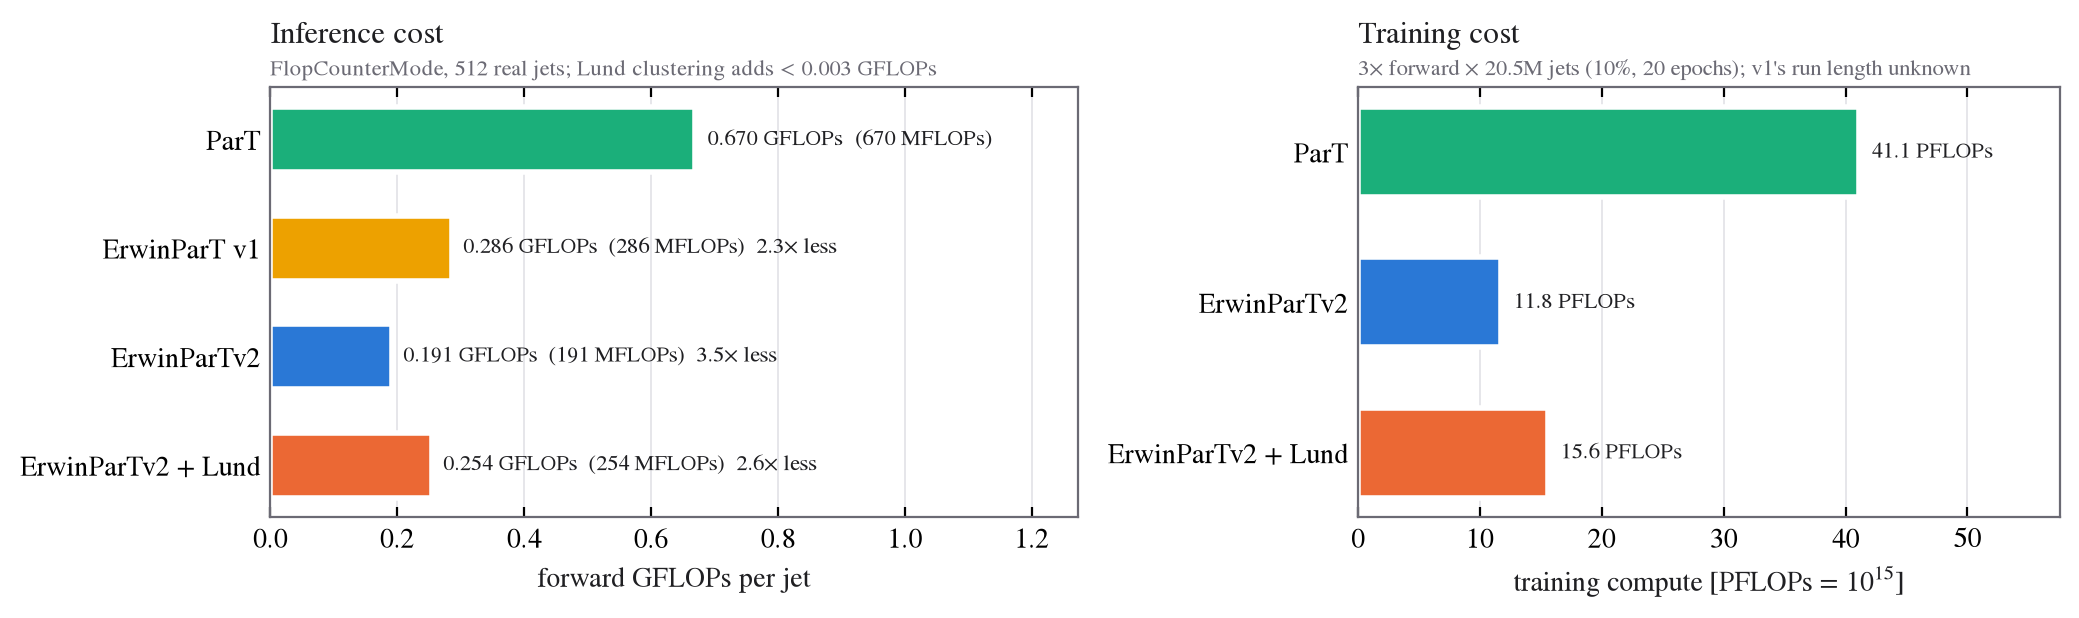
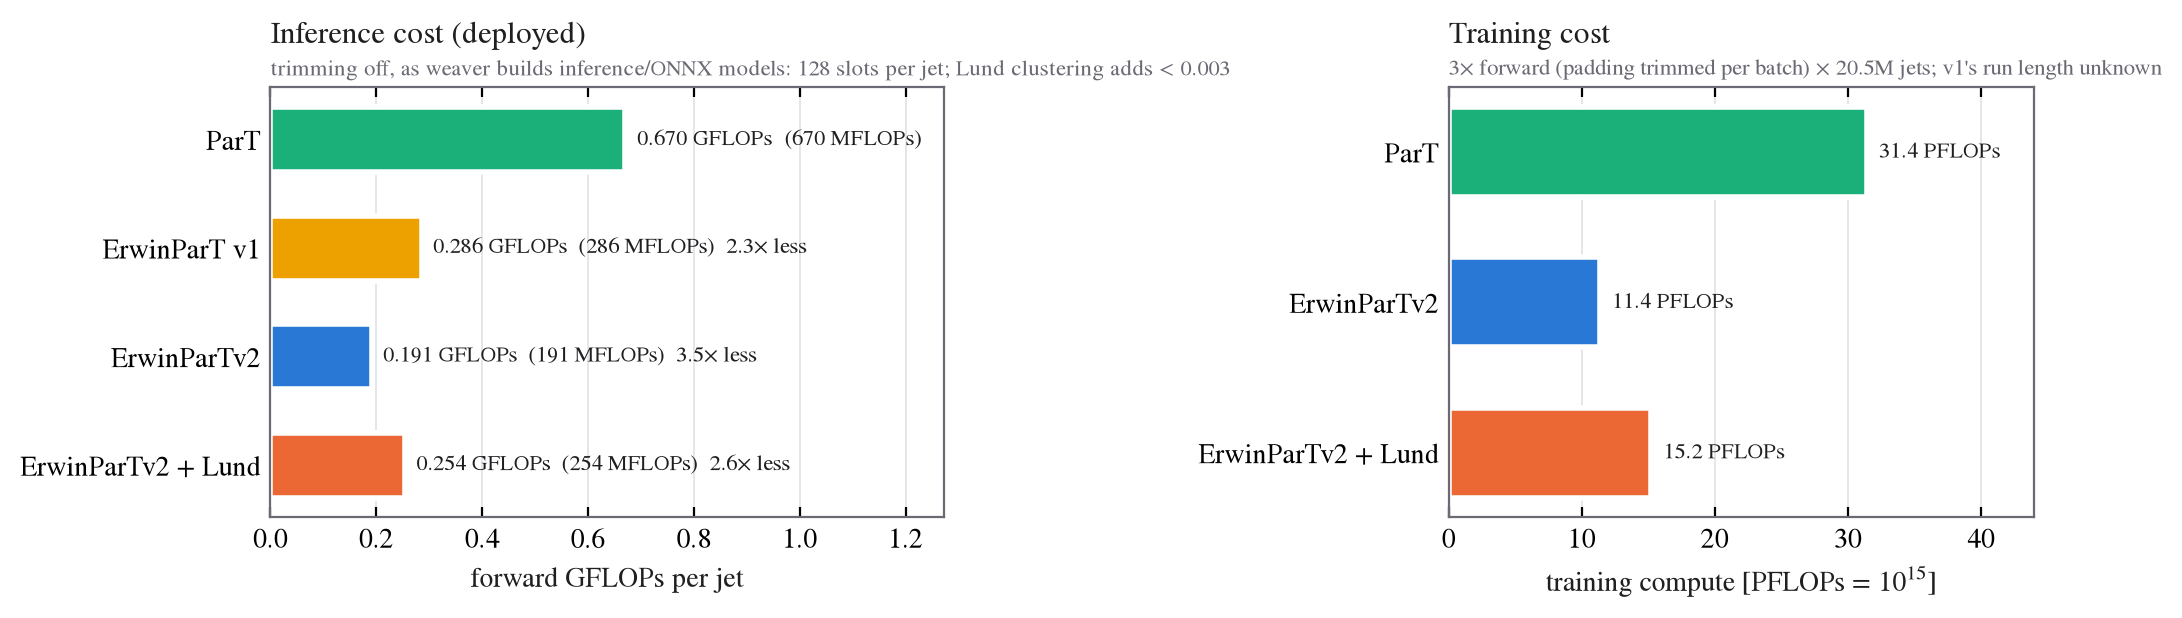
Fix FLOP counts: separate deployed (128 slots) from trimmed training cost
flops_cluster_models.py counted each model on its first call, but weaver's
SequenceTrimmer leaves its first 5 calls untrimmed. The per-jet numbers were
therefore the cost with all 128 padded slots, labelled as "512 real jets",
and the training compute built on them overstated ParT by 31%.

Now both are measured after a warm-up:
  deployed  trimming off - how weaver builds inference/ONNX models
            (enabled=trim and not for_inference) and how a fixed-size
            pipeline runs: ParT 0.670, ErwinParTv2 0.191 GFLOPs/jet (3.5x)
  training  padding trimmed to the batch's longest jet (104 of 512 real
            jets): ParT 0.512, ErwinParTv2 0.185 (2.8x)
Training compute: ParT 31.4 PFLOPs (was 41.1), ErwinParTv2 11.4 (was 11.8),
+ Lund 15.2 (was 15.6). flops.png, summary.csv and the cost section of
benchmark_comparison.md are updated to match.

Claude-Session: https://claude.ai/code/session_01NYCsdky5RopyiTFLZWmxnj

diff --git a/tests/flops_cluster_models.py b/tests/flops_cluster_models.py
@@ -7,8 +7,15 @@ real jets (multiplicities from JetClass_example_100k.root, so ParT's
 SequenceTrimmer cuts padding the way it does in training). Feature VALUES do not
 change a FLOP count, only shapes and masks, so they are not standardised here.
 
-  gflops_per_jet      eval forward, FlopCounterMode, divided by the batch
-  train_pflops        3 x forward (forward + backward) x jets seen in training
+  gflops_per_jet          eval forward, FlopCounterMode, divided by the batch, with
+                          SequenceTrimmer OFF: every jet uses all 128 padded slots.
+                          This is the deployed cost - weaver builds inference/ONNX
+                          models with trimming disabled (enabled=trim and not
+                          for_inference) - and that of a fixed-size hardware pipeline.
+  gflops_per_jet_trimmed  trimming ON, after the 5 calls SequenceTrimmer leaves
+                          untrimmed: padding cut to the batch's longest jet, as in
+                          training
+  train_pflops            3 x trimmed forward (forward + backward) x jets seen
 
 FlopCounterMode counts matmul/conv/attention kernels, not elementwise ops, so
 the Lund clustering (distance updates, no matmuls) is estimated separately as
@@ -79,19 +86,32 @@ if __name__ == "__main__":
            "multiplicity_max_in_batch": int(mult.max()), "models": {}}
     for name, (path, kw, seen) in MODELS.items():
         model = build(path, kw, dc)
-        fc = FlopCounterMode(display=False)
-        with fc:
-            model(pts, fts.clone().requires_grad_(), vec, msk)
-        per_jet = fc.get_total_flops() / B
+        trimmer = getattr(model, "mod", model).trimmer
+        with torch.no_grad():
+            for _ in range(6):                   # past SequenceTrimmer's 5 untrimmed calls
+                model(pts[:2], fts[:2], vec[:2], msk[:2])
+
+        def count():
+            fc = FlopCounterMode(display=False)  # grad on (its hooks fail under no_grad)
+            with fc:
+                model(pts, fts, vec, msk)
+            return fc.get_total_flops() / B
+
+        per_jet_trim = count()
+        trimmer.enabled = False
+        per_jet_fixed = count()
+        trimmer.enabled = True
+        per_jet = per_jet_trim
         rec = {"network": path, "kwargs": kw, "params": sum(p.numel() for p in model.parameters()),
-               "gflops_per_jet": per_jet / 1e9}
+               "gflops_per_jet": per_jet_fixed / 1e9, "gflops_per_jet_trimmed": per_jet_trim / 1e9}
         if "use_lund" in kw:
             rec["lund_clustering_gflops_upper"] = LUND_ELEMENTWISE / 1e9
         if seen:
             rec["jets_seen"] = seen
             rec["train_pflops"] = 3 * per_jet * seen / 1e15
         out["models"][name] = rec
-        print(f"{name:<18} {rec['params'] / 1e6:5.2f}M params  {rec['gflops_per_jet']:.4f} GFLOPs/jet"
+        print(f"{name:<18} {rec['params'] / 1e6:5.2f}M params  fixed {rec['gflops_per_jet']:.4f}"
+              f"  trimmed {rec['gflops_per_jet_trimmed']:.4f} GFLOPs/jet"
               + (f"  {rec['train_pflops']:.1f} PFLOPs to train" if seen else ""), flush=True)
     path = os.path.join(HERE, "s10_results", "cluster_flops.json")
     json.dump(out, open(path, "w"), indent=1)

diff --git a/tests/plot_cluster_comparison.py b/tests/plot_cluster_comparison.py
@@ -255,7 +255,8 @@ def plot_flops(flops):
     ax.set_yticks(y, [MODELS[k][0] for _, k in order]); ax.tick_params(axis="y", length=0)
     ax.set_xlim(0, max(vals) * 1.9); ax.set_xlabel("forward GFLOPs per jet")
     grid(ax, "x")
-    titled(ax, "Inference cost", "FlopCounterMode, 512 real jets; Lund clustering adds < 0.003 GFLOPs")
+    titled(ax, "Inference cost (deployed)",
+           "trimming off, as weaver builds inference/ONNX models: 128 slots per jet; Lund clustering adds < 0.003")
     ax = axes[1]
     tr = [(n, k) for n, k in order if "train_pflops" in flops[n]]
     yt = np.arange(len(tr))[::-1]
@@ -266,7 +267,7 @@ def plot_flops(flops):
     ax.set_yticks(yt, [MODELS[k][0] for _, k in tr]); ax.tick_params(axis="y", length=0)
     ax.set_xlim(0, max(tv) * 1.4); ax.set_xlabel(r"training compute [PFLOPs = $10^{15}$]")
     grid(ax, "x")
-    titled(ax, "Training cost", r"3$\times$ forward $\times$ 20.5M jets (10%, 20 epochs); v1's run length unknown")
+    titled(ax, "Training cost", r"3$\times$ forward (padding trimmed per batch) $\times$ 20.5M jets; v1's run length unknown")
     fig.tight_layout()
     save(fig, "flops.png")
 

diff --git a/plots/new_comparison_plots/benchmark_comparison.md b/plots/new_comparison_plots/benchmark_comparison.md
@@ -54,15 +54,27 @@ errors by about 3×.
 
 ## Cost
 
-Forward FLOPs per jet, counted with `torch.utils.flop_counter.FlopCounterMode` on
-512 real jets, with each model built by its weaver network config:
+Forward FLOPs per jet, counted with `torch.utils.flop_counter.FlopCounterMode`,
+with each model built by its weaver network config:
 
-| Model | Parameters | GFLOPs / jet | vs ParT | Particles kept | Test jets truncated |
-| --- | --- | --- | --- | --- | --- |
-| ParT | 2.14M | 0.670 | 1× | 128 | 0.001% |
-| ErwinParT (v1) | 2.65M | 0.286 | 2.3× less | 128 | 0.001% |
-| **ErwinParTv2** | 2.21M | **0.191** | **3.5× less** | 64 | 6.3% |
-| ErwinParTv2 + Lund | 2.26M | 0.254 | 2.6× less | 64 + Lund tokens | 6.3% |
+- **Deployed:** padding trimming off, so every jet uses all 128 input slots.
+  This is how weaver builds a model for inference or ONNX export
+  (`enabled=trim and not for_inference`), and how a fixed-size hardware pipeline
+  sized for the largest jet runs.
+- **Training:** weaver trims each batch's padding down to its longest jet. This
+  was measured on 512 real jets, the longest with 104 particles.
+
+| Model | Parameters | GFLOPs / jet, deployed | vs ParT | GFLOPs / jet, training batch | vs ParT | Particles kept | Test jets truncated |
+| --- | --- | --- | --- | --- | --- | --- | --- |
+| ParT | 2.14M | 0.670 | 1× | 0.512 | 1× | 128 | 0.001% |
+| ErwinParT (v1) | 2.65M | 0.286 | 2.3× less | 0.276 | 1.9× less | 128 | 0.001% |
+| **ErwinParTv2** | 2.21M | **0.191** | **3.5× less** | **0.185** | **2.8× less** | 64 | 6.3% |
+| ErwinParTv2 + Lund | 2.26M | 0.254 | 2.6× less | 0.248 | 2.1× less | 64 + Lund tokens | 6.3% |
+
+ErwinParTv2 always fills 64 fixed slots, so its cost barely depends on trimming.
+ParT's cost follows the longest jet it sees. With per-jet trimming at batch 1,
+ParT is the cheaper model for jets below about 40 particles; see
+`plots/fpga_tradeoff/scaling.png`.
 
 The Lund clustering's elementwise operations add under 0.003 GFLOPs per jet; the
 FLOP counter doesn't see them. At 64 particles, truncation falls hardest on
